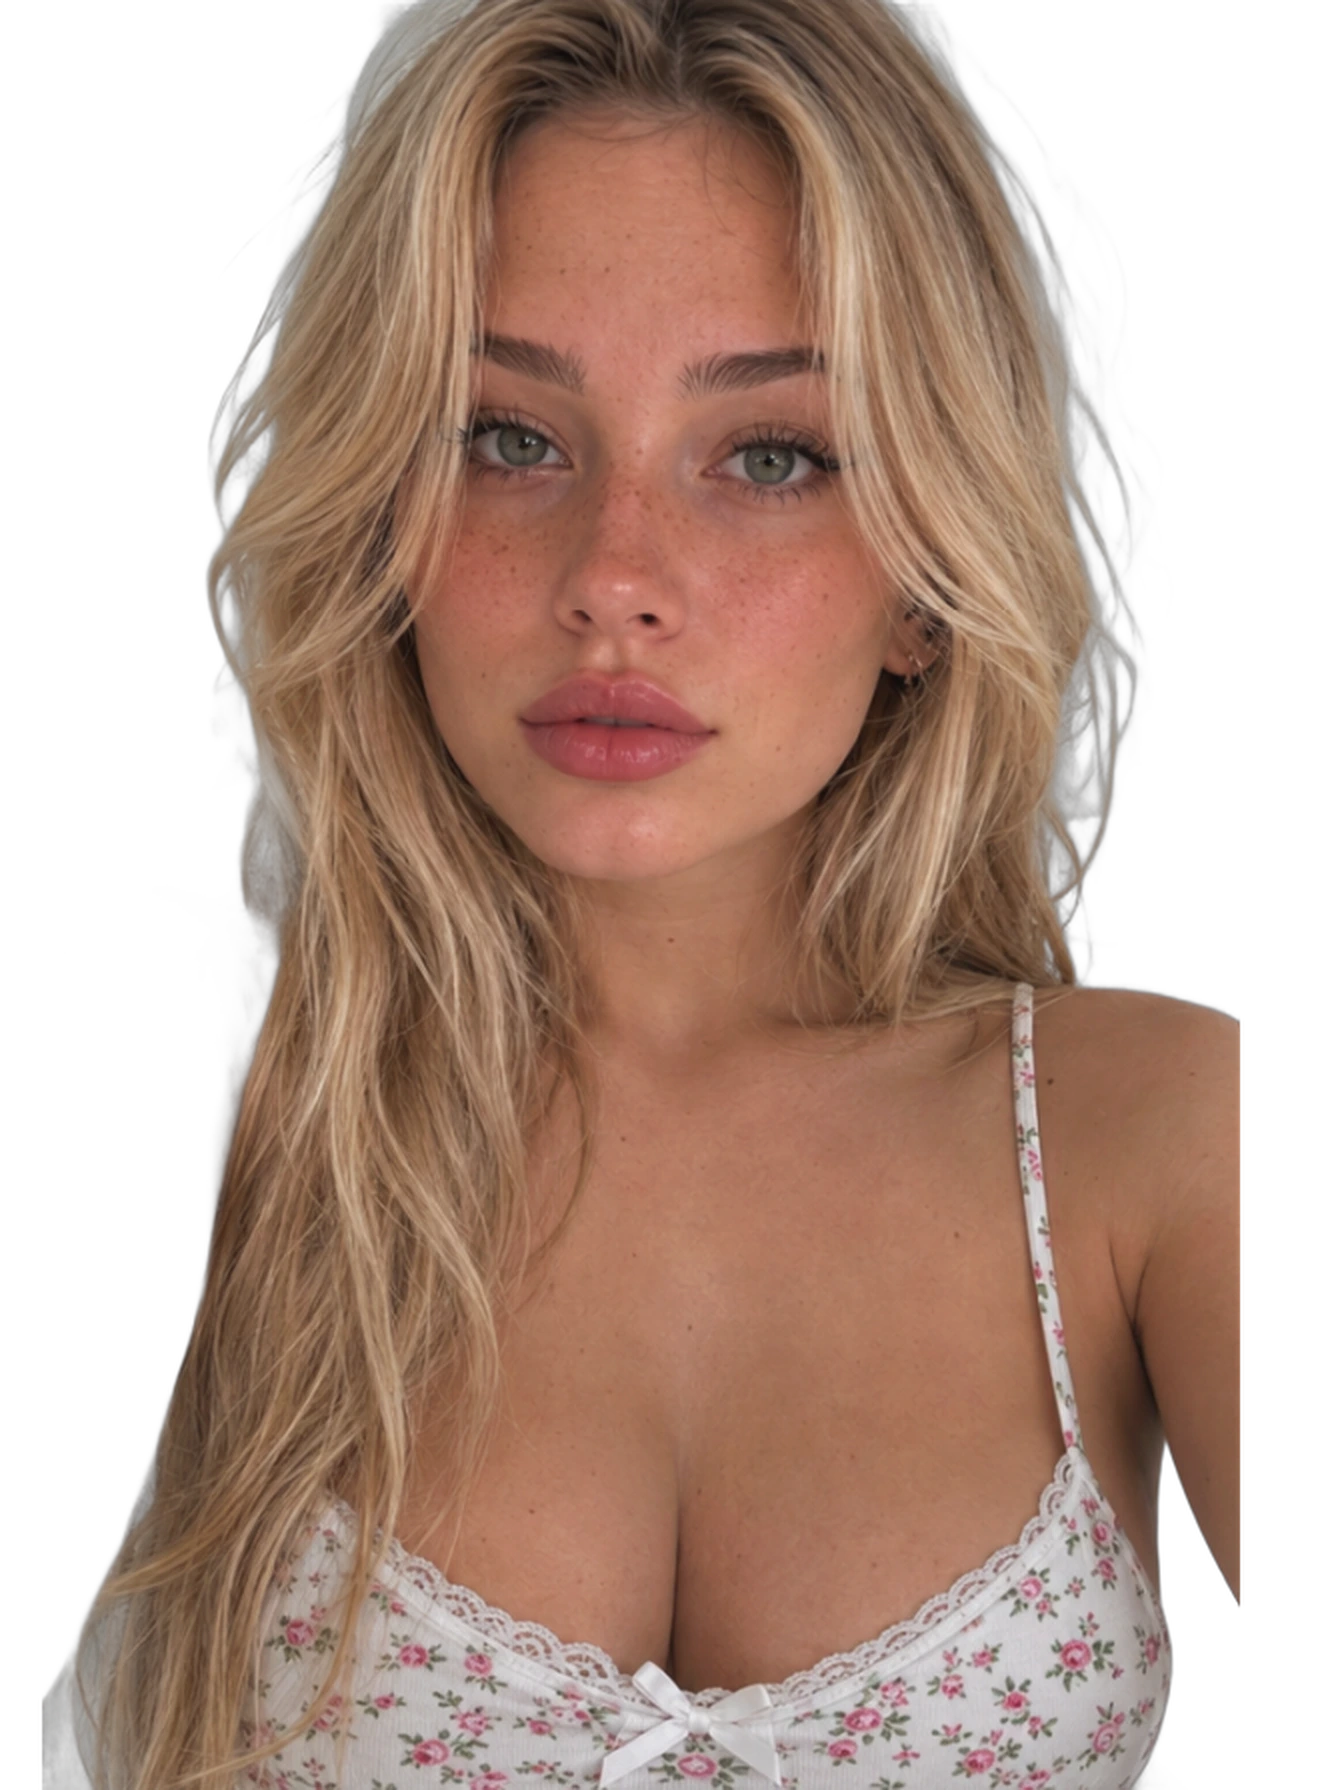
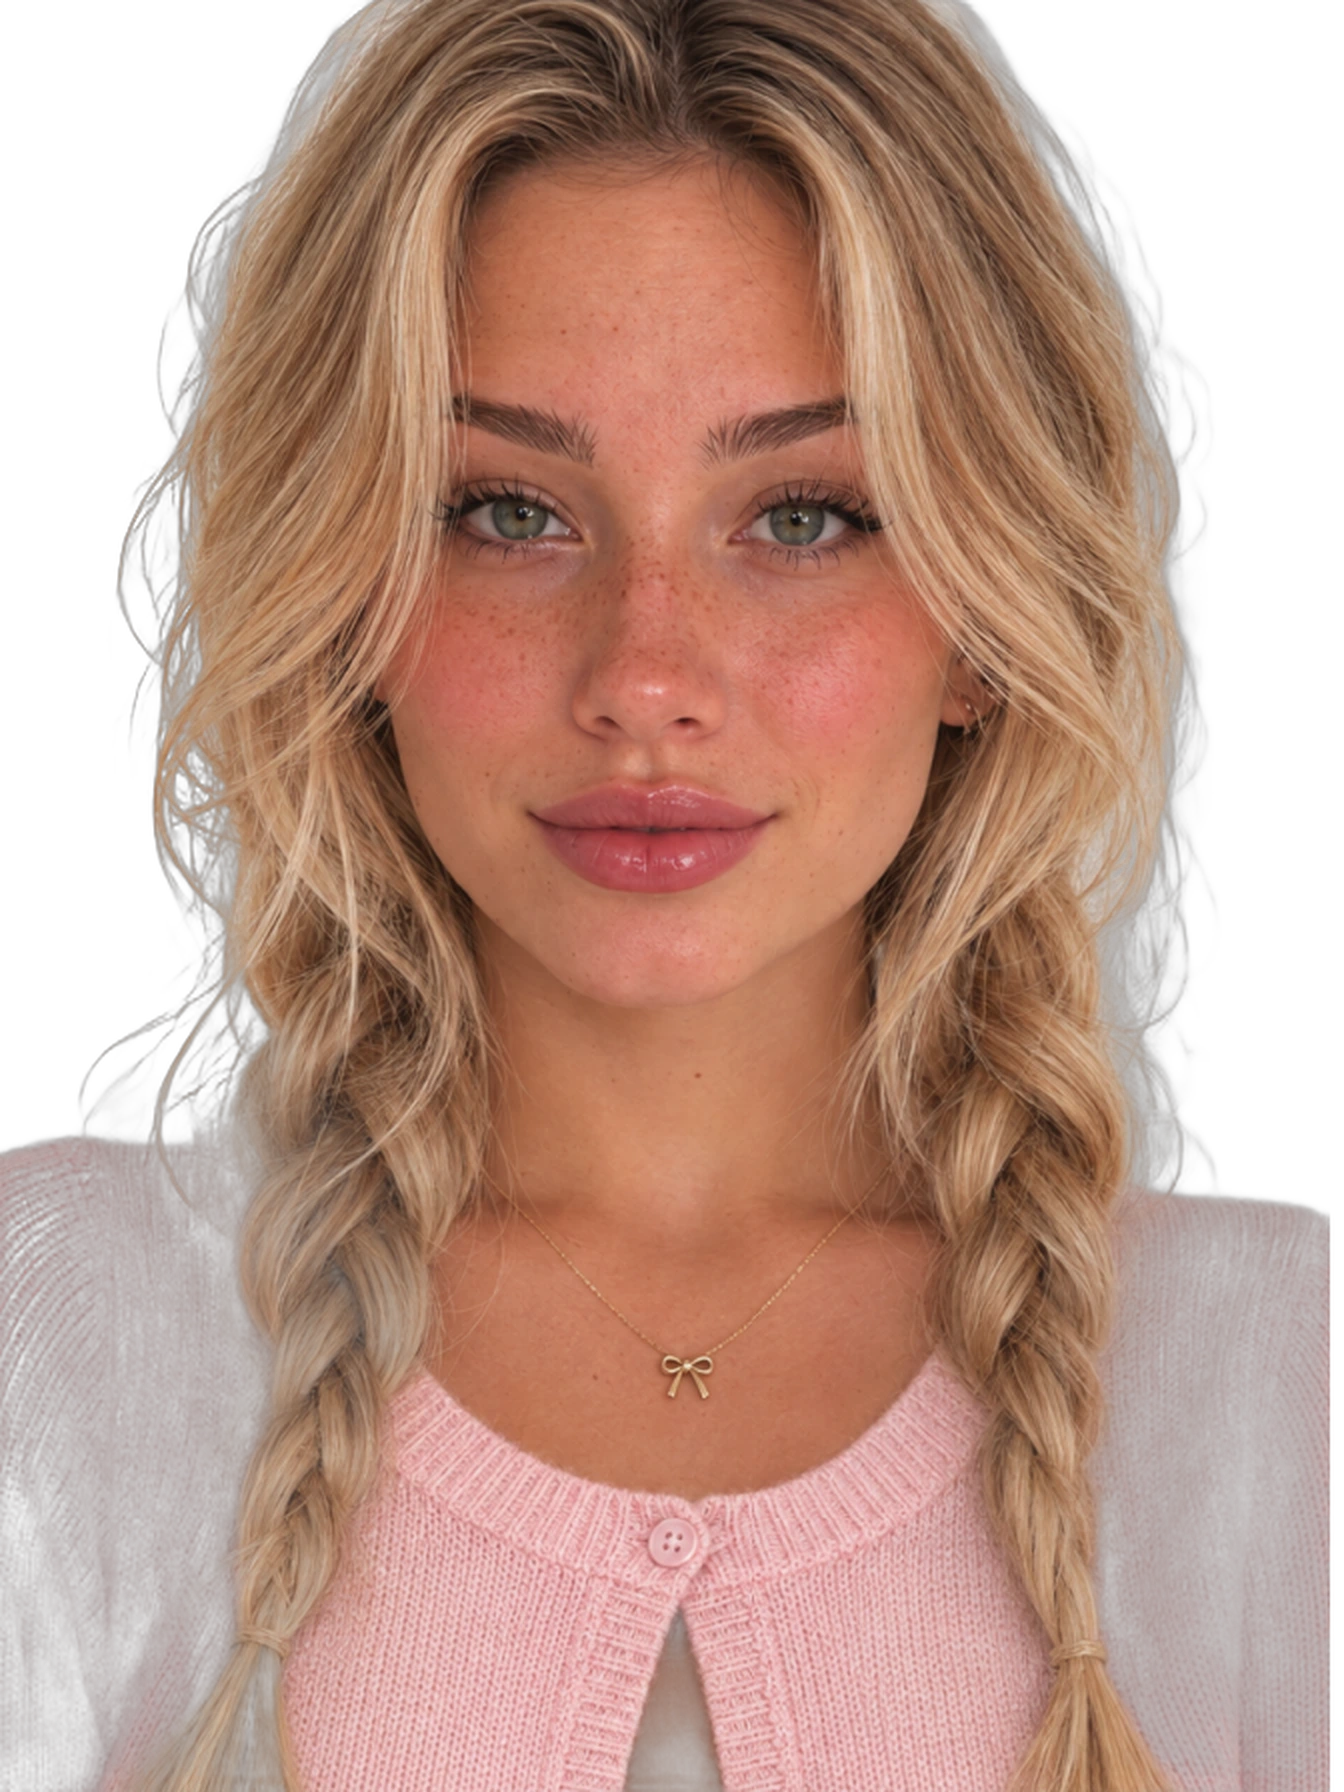
Hero: new Noemie test photo (pink cardigan, braids)
Claude-Session: https://claude.ai/code/session_01LopeR6w6xxcLsmToY8WoWL

diff --git a/index.html b/index.html
@@ -226,7 +226,7 @@
       <div class="ring" id="ring" aria-hidden="true"></div>
       <div class="floor"></div>
       <div class="head" id="head">
-        <img id="face" src="noemie_cut.webp" alt="Noemie, an Unreal Agency AI model">
+        <img id="face" src="noemie_cut.webp?v=2" alt="Noemie, an Unreal Agency AI model">
         <div class="shine" id="shine"></div>
       </div>
       <div class="chip a"><span class="dot"></span>Noemie · online now</div>
